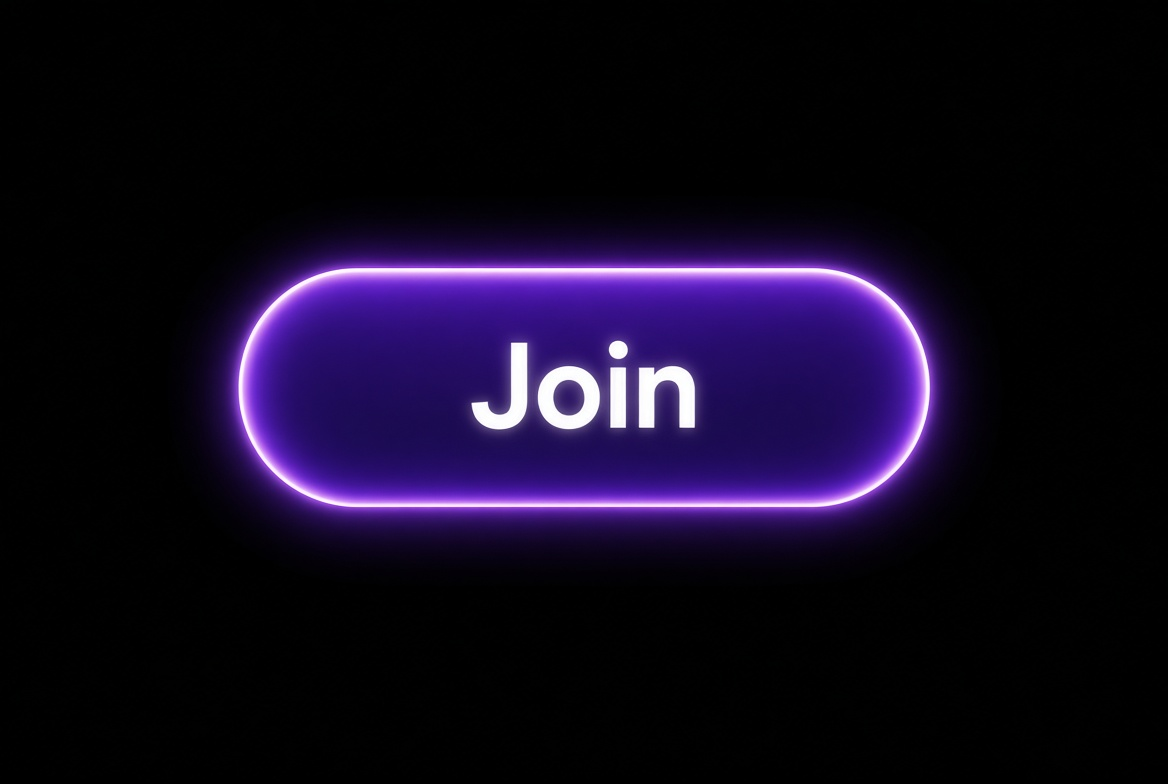
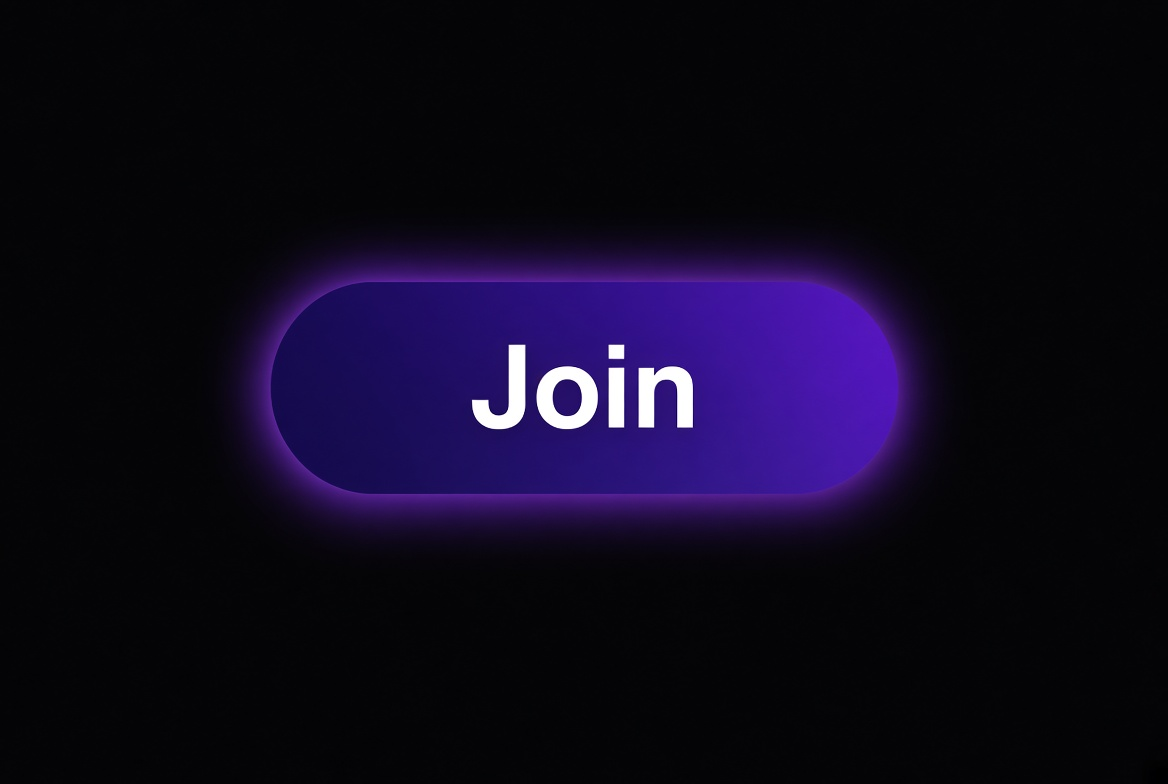
Add files via upload

Changed region(s): [[0.1541, 0.3061, 0.8322, 0.7041]]

diff --git a/profile/README.md b/profile/README.md
@@ -1,25 +1,31 @@
-# Lusychat: AI Characters, Chat, Images and Video
+# Lusychat Review: AI Character Chat and Images
 
 [![Lusychat](./banner.png)](https://chubby-gf.com/lusychat)
 
-Lusychat is an 18+ AI character platform. Browse a community library or build your own character, then chat, generate images and make short clips. This page is an independent overview. Buttons go to the product.
+Lusychat is an 18+ AI character platform. Browse a community library or build your own character, then chat and generate images. This page is an independent overview.
 
-[![Start chat](./start-chat.png)](https://chubby-gf.com/lusychat) &nbsp; [![Join](./join.png)](https://chubby-gf.com/lusychat)
+<p>
+  <a href="https://chubby-gf.com/lusychat"><img src="./start-chat.png" width="160" alt="Start chat"></a>
+  &nbsp;&nbsp;
+  <a href="https://chubby-gf.com/lusychat"><img src="./join.png" width="120" alt="Join"></a>
+</p>
+
+**[Start chatting on Lusychat](https://chubby-gf.com/lusychat)**
 
 ## At a glance
 
 | Topic | What to know |
 | --- | --- |
 | Product | Lusychat, lusychat.ai |
-| Best for | Character chat, roleplay, images and short video |
+| Best for | Character chat and image generation |
 | Library | Community characters plus your own |
-| Media | Image and video generation, paid in coins |
+| Media | Images spend LusyCoins |
 | Chat | Free tier with daily messages; paid plans raise limits |
 | Age | 18+ only |
 
 ## What it is
 
-Lusychat is built around fictional characters rather than a single fixed companion. You pick someone from the public library or create a character with a name, look, personality and opening scene. Chat stays tied to that character. Images and short video are generated from the same setup and spend LusyCoins.
+[Lusychat](https://chubby-gf.com/lusychat) is built around fictional characters. You pick someone from the public library or create a character with a name, look, personality and opening line. Chat stays tied to that character. Images are generated from the same setup and spend LusyCoins.
 
 It runs in the browser. An Android app is also listed on the site.
 
@@ -27,71 +33,71 @@ It runs in the browser. An Android app is also listed on the site.
 
 - **Chat.** Talk to a chosen or custom character. The free tier includes a daily message allowance.
 - **Create a character.** Name, personality, description and greeting.
-- **Browse.** A large community library of characters and scenarios.
-- **Images and video.** Generate stills and short clips. Higher plans add more coins and batch video.
-- **Models.** Paid tiers can switch between different chat models. Coin cost depends on the model.
+- **Browse.** A community library of characters.
+- **Images.** Generate stills of a character. Coin cost depends on the plan.
+- **Models.** Paid tiers can switch between different chat models.
 
-Prices, coin grants and model names change. Check the live plan page before you pay.
+Prices and coin grants change. Check the live plan page before you pay.
 
 ## Who it is for
 
-Use it if you want anime-style or community roleplay, your own character, and pictures or clips in the same place. Skip it if you want a soft photorealistic dating app, therapy, or a general work chatbot.
+Use it if you want community characters, your own character, and pictures in the same place. Skip it if you want therapy or a general work chatbot.
 
-[![Start chat](./start-chat.png)](https://chubby-gf.com/lusychat)
+[Open Lusychat](https://chubby-gf.com/lusychat)
 
 ## Pricing
 
-There is a free tier with a limited number of daily messages. Paid plans add more messages, larger context and a monthly LusyCoins allowance for images and video. Discounts show up often. Open the upgrade screen and read the current numbers.
+There is a free tier with a limited number of daily messages. Paid plans add more messages, larger context and a monthly LusyCoins allowance for images. Open the upgrade screen and read the current numbers.
 
 ## Pros and cons
 
 **Pros**
 
-- Large character library and a creator.
-- Chat, images and video in one product.
+- Character library and a creator.
+- Chat and images in one product.
 - Free tier to try before paying.
 - Browser, plus an Android app listed on the site.
 
 **Cons**
 
-- Media spends coins. Heavy image and video use costs more than the headline plan.
+- Images spend coins.
 - Community characters vary in quality.
 - Adult product. Do not put sensitive personal data into the chat.
 - Not a substitute for a real person or for professional help.
 
 ## How to start
 
-1. Open Lusychat. You must be 18+.
+1. [Open Lusychat](https://chubby-gf.com/lusychat). You must be 18+.
 2. Pick a character or create one.
 3. Send the first message.
-4. Check your coin balance before you generate images or video.
+4. Check your coin balance before you generate images.
 
 ## Privacy
 
-Read the privacy policy and terms on lusychat.ai before you share real names, contacts or other sensitive details. Delete history from the product settings if you stop using it. This page does not control that data.
+Read the privacy policy and terms on the product site before you share real names, contacts or other sensitive details. Delete history from the product settings if you stop using it. This page does not control that data.
 
 ## FAQ
 
 ### What is Lusychat?
 
-An 18+ AI character and roleplay site. You chat with community or custom characters and can generate images and short video.
+An 18+ AI character site. You chat with community or custom characters and can generate images.
 
 ### Is it free?
 
-Yes, with a daily message limit. Paid plans raise limits and add coins for media.
+Yes, with a daily message limit. Paid plans raise limits and add coins for images.
 
-### Does it do images and video?
+### Does it do images?
 
-Yes. Generation spends LusyCoins. Higher plans include more coins and more video features.
+Yes. Generation spends LusyCoins.
 
 ### Is this the official page?
 
-No. This is an overview. The buttons go to the product.
+No. This is an overview. Links go to the product.
 
 ## Verdict
 
-Lusychat fits if you want a character library, roleplay and built-in image and video generation. Check the live plan and coin costs, then decide.
+Lusychat fits if you want a character library and built-in image generation. Check the live plan and coin costs, then decide.
 
-[![Join Lusychat](./join.png)](https://chubby-gf.com/lusychat)
+**[Try Lusychat](https://chubby-gf.com/lusychat)**
 
 Product name belongs to its owner. This is an independent overview page.
